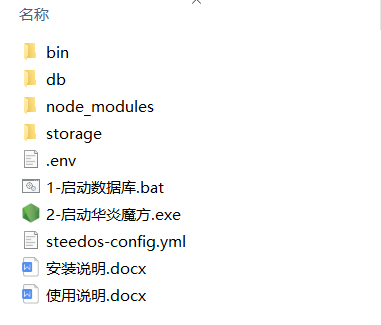
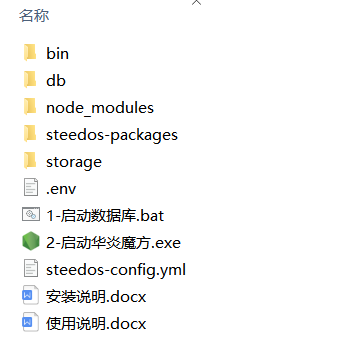
steedos-project-mini-win-1.23.0-alpha.12.zip

Changed region(s): [[0.058, 0.1231, 0.5507, 0.9538], [0.029, 0.0, 0.1449, 0.0615], [0.5507, 0.0, 0.5797, 0.0308]]

diff --git a/docs/help/deploy/deploy_windows_server.md b/docs/help/deploy/deploy_windows_server.md
@@ -14,7 +14,7 @@ title: Windows 快速安装
 
 ## 下载
 
-点击下载执行程序压缩包[steedos-project-oa-win.zip](https://server-backups.oss-cn-beijing.aliyuncs.com/steedos-trial/steedos-project-oa-win.zip)
+点击下载执行程序压缩包[steedos-project-mini-win-1.23.0-alpha.12.zip](https://server-backups.oss-cn-beijing.aliyuncs.com/steedos-platform/quick-installers/steedos-project-mini-win-1.23.0-alpha.12.zip)
 
 解压后目录主要结构为：
 
@@ -24,6 +24,7 @@ title: Windows 快速安装
 - `db` 存放数据库数据；
 - `node_modules` 存放系统运行所需二进制包；
 - `storage` 存放系统中上传的文件；
+- `steedos-packages` 存放安装的插件，如`steedos-app-crm.package`等`.package`后缀的文件；
 - `.env` 是系统的配置文件可在此文件中配置端口、访问地址等；
 - `1-启动数据库.bat` 用于启动数据库服务；
 - `2-启动华炎魔方.exe` 用于启动华炎魔方服务；
@@ -57,9 +58,9 @@ title: Windows 快速安装
 
 也可以编辑 **1-启动数据库.bat** 在行尾添加 `--port {非27017端口}`，同时修改**.env.local**文件中**MONGO_URL**中的端口
 
-### 找不到MSVCP140.dll
+### 找不到 MSVCP140.dll
 
-启动数据库报错：由于找不到MSVCP140.dll，无法继续执行代码。重新安装程序可能会解决此问题。
+启动数据库报错：由于找不到 MSVCP140.dll，无法继续执行代码。重新安装程序可能会解决此问题。
 
 缺少微软**VC++**运行库文件，去微软官网下载[最新支持的 Visual C++](https://support.microsoft.com/zh-cn/help/2977003/the-latest-supported-visual-c-downloads)
 
@@ -71,14 +72,25 @@ title: Windows 快速安装
 
 启动服务，数据库报错：`MongoError: cannot write to 'steedos.system.indexes'`，报错后数据库自动停止了。
 
-Mongodb开了replication之后没初始化可能会遇到以上错误，请参考 [使用集群模式启动数据库](https://developer.steedos.com/help/deploy/deploy_ubuntu#%E4%BD%BF%E7%94%A8%E9%9B%86%E7%BE%A4%E6%A8%A1%E5%BC%8F%E5%90%AF%E5%8A%A8%E6%95%B0%E6%8D%AE%E5%BA%93)，来初始化数据库。
+Mongodb 开了 replication 之后没初始化可能会遇到以上错误，请参考 [使用集群模式启动数据库](https://developer.steedos.com/help/deploy/deploy_ubuntu#%E4%BD%BF%E7%94%A8%E9%9B%86%E7%BE%A4%E6%A8%A1%E5%BC%8F%E5%90%AF%E5%8A%A8%E6%95%B0%E6%8D%AE%E5%BA%93)，来初始化数据库。
 
 ### Too many open files
 
 您有可能遇到数据库报`Too many open files`的错误，错误日志信息可能如下所示：
 
 ```json
-{"t":{"$date":"2020-08-04T10:58:36.840+08:00"},"s":"E",  "c":"STORAGE",  "id":22435,   "ctx":"initandlisten","msg":"WiredTiger error","attr":{"error":24,"message":"[1596509916:840216][88959:0x10de0edc0], file:collection-0--5658530932290964009.wt, txn-recover: __wt_txn_recover, 852: Recovery failed: Too many open files"}}
+{
+  "t": { "$date": "2020-08-04T10:58:36.840+08:00" },
+  "s": "E",
+  "c": "STORAGE",
+  "id": 22435,
+  "ctx": "initandlisten",
+  "msg": "WiredTiger error",
+  "attr": {
+    "error": 24,
+    "message": "[1596509916:840216][88959:0x10de0edc0], file:collection-0--5658530932290964009.wt, txn-recover: __wt_txn_recover, 852: Recovery failed: Too many open files"
+  }
+}
 ```
 
 这通常是由于未设置`UNIX ulimit Settings`造成的，详细说明参考 [ulimit Considerations](https://docs.mongodb.com/manual/tutorial/install-mongodb-on-ubuntu/#run-mongodb-community-edition)。
